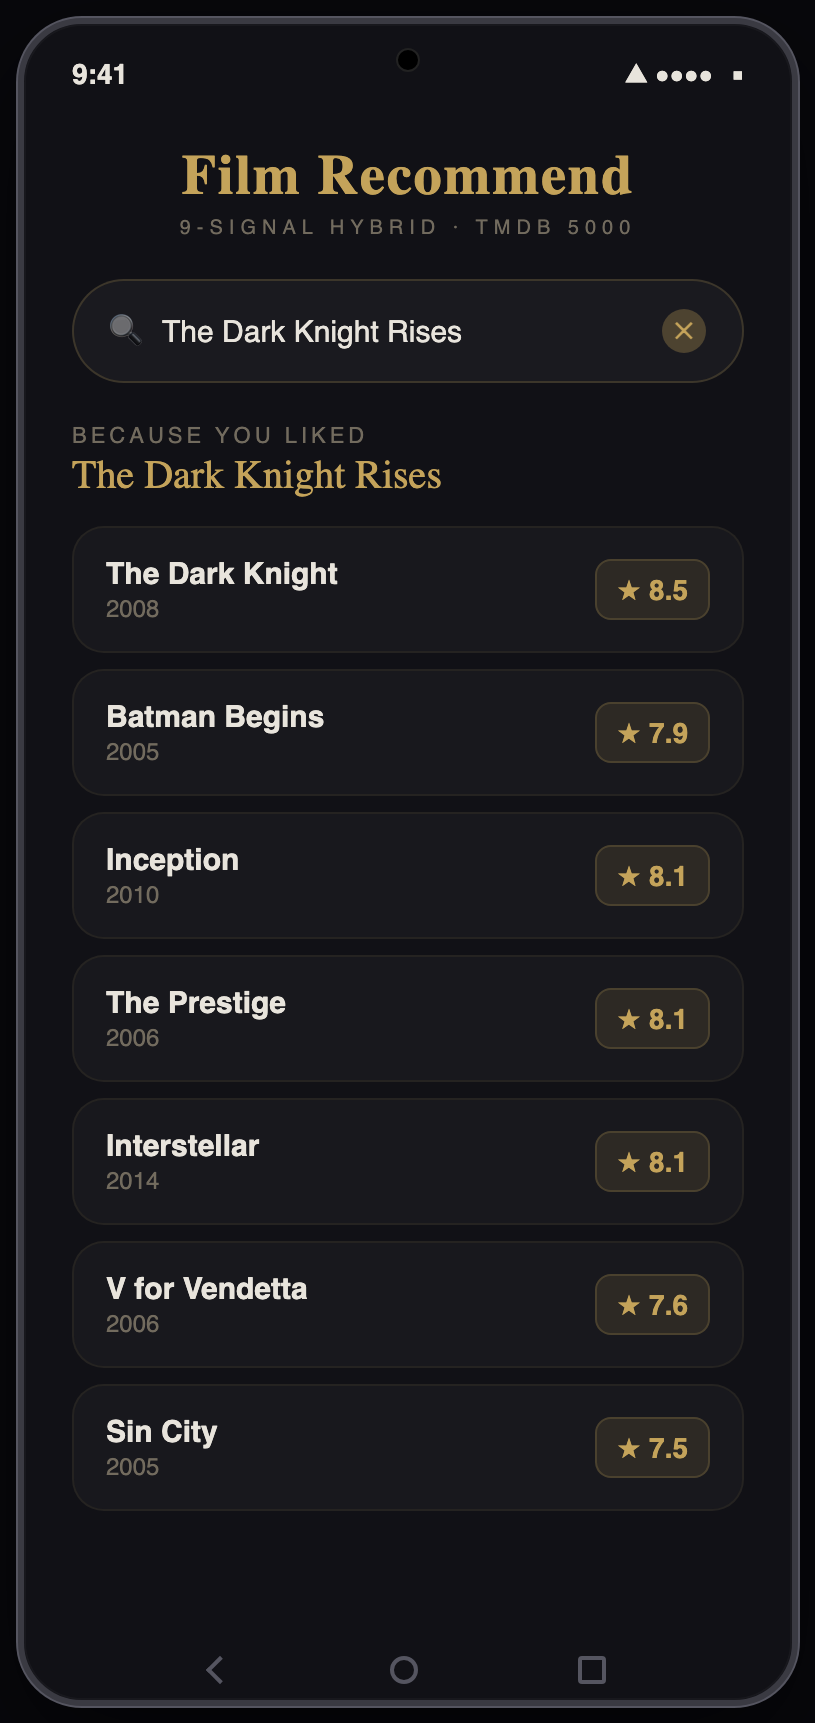
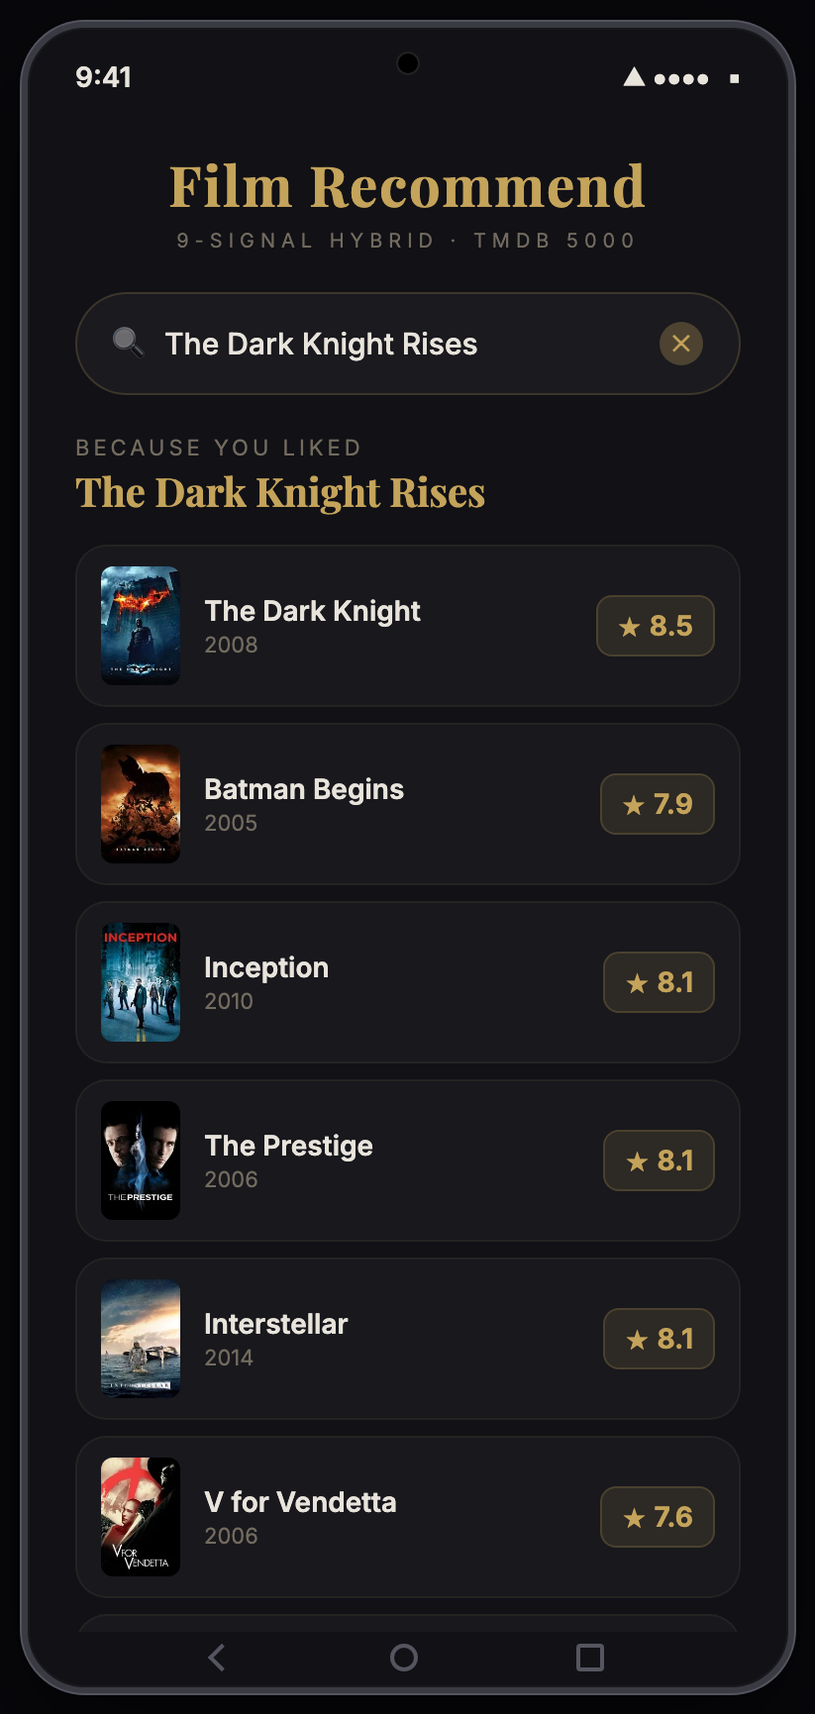
Portrait posters + updated GIFs (#45)
* Fix poster cropping: show movie posters in portrait orientation

Change Cover Flow poster dimensions from 220×220 squares to 220×330
portrait (2:3 ratio) to display full movie poster art instead of
center-cropped squares. Increase coverflow container height to 480px.

* Update all GIFs and previews with portrait posters

Regenerate website, iOS, and Android GIFs to show portrait-oriented
movie posters (2:3 ratio) instead of cropped squares. Phone mockups
now include poster thumbnails in each recommendation card.

---------

diff --git a/docs/index.html b/docs/index.html
@@ -164,7 +164,7 @@
     .coverflow {
       position: relative;
       width: 100%;
-      height: 380px;
+      height: 480px;
       perspective: 800px;
       overflow: hidden;
       margin: 20px 0 0;
@@ -236,7 +236,7 @@
 
     .coverflow-poster {
       width: 220px;
-      height: 220px;
+      height: 330px;
       border-radius: 3px;
       object-fit: cover;
       background: #141418;
@@ -246,7 +246,7 @@
 
     .coverflow-poster-fallback {
       width: 220px;
-      height: 220px;
+      height: 330px;
       border-radius: 3px;
       background: #141418;
       display: flex;
@@ -258,7 +258,7 @@
 
     .coverflow-reflect {
       width: 220px;
-      height: 80px;
+      height: 100px;
       border-radius: 0 0 3px 3px;
       object-fit: cover;
       object-position: bottom;
